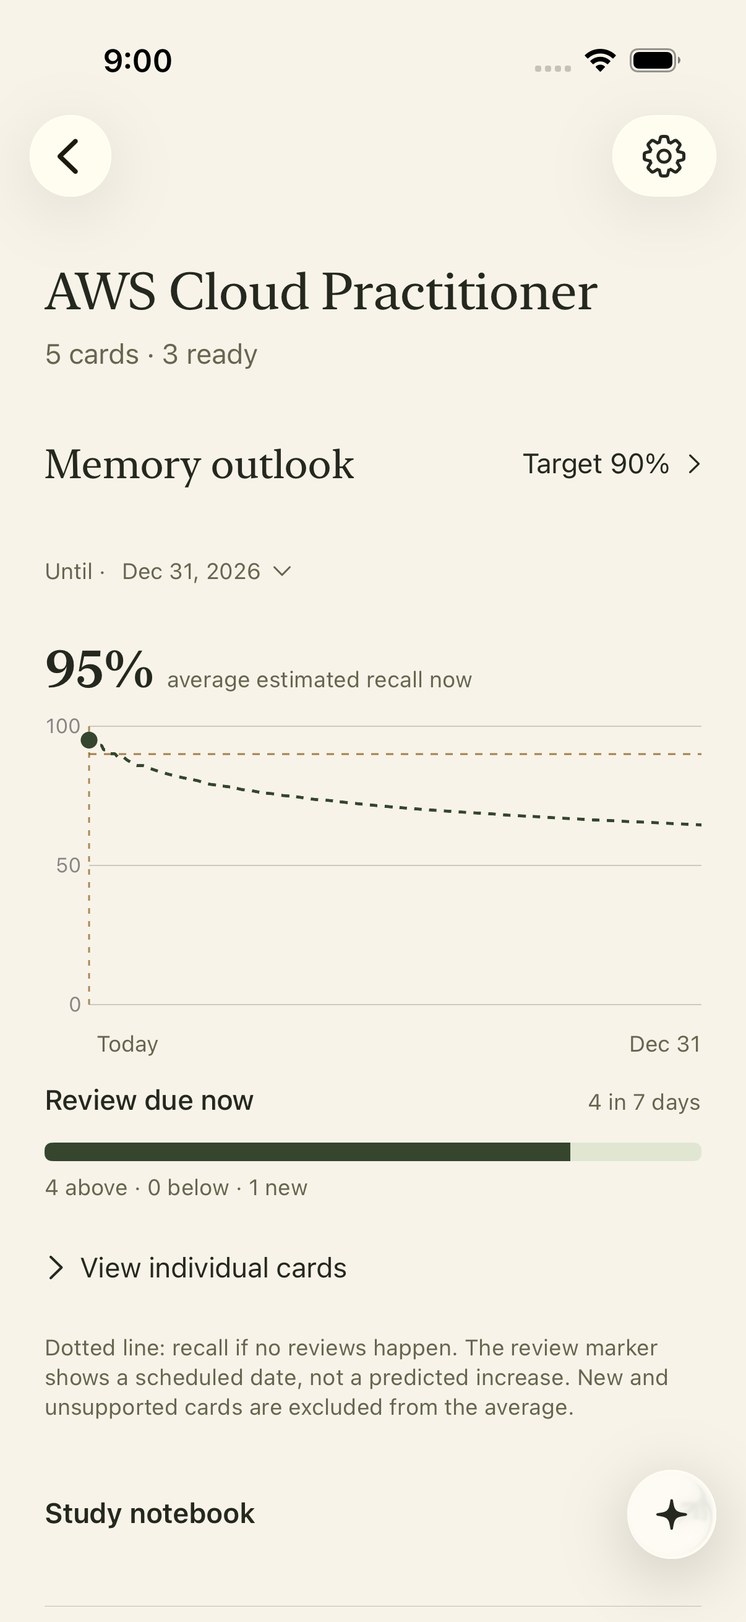
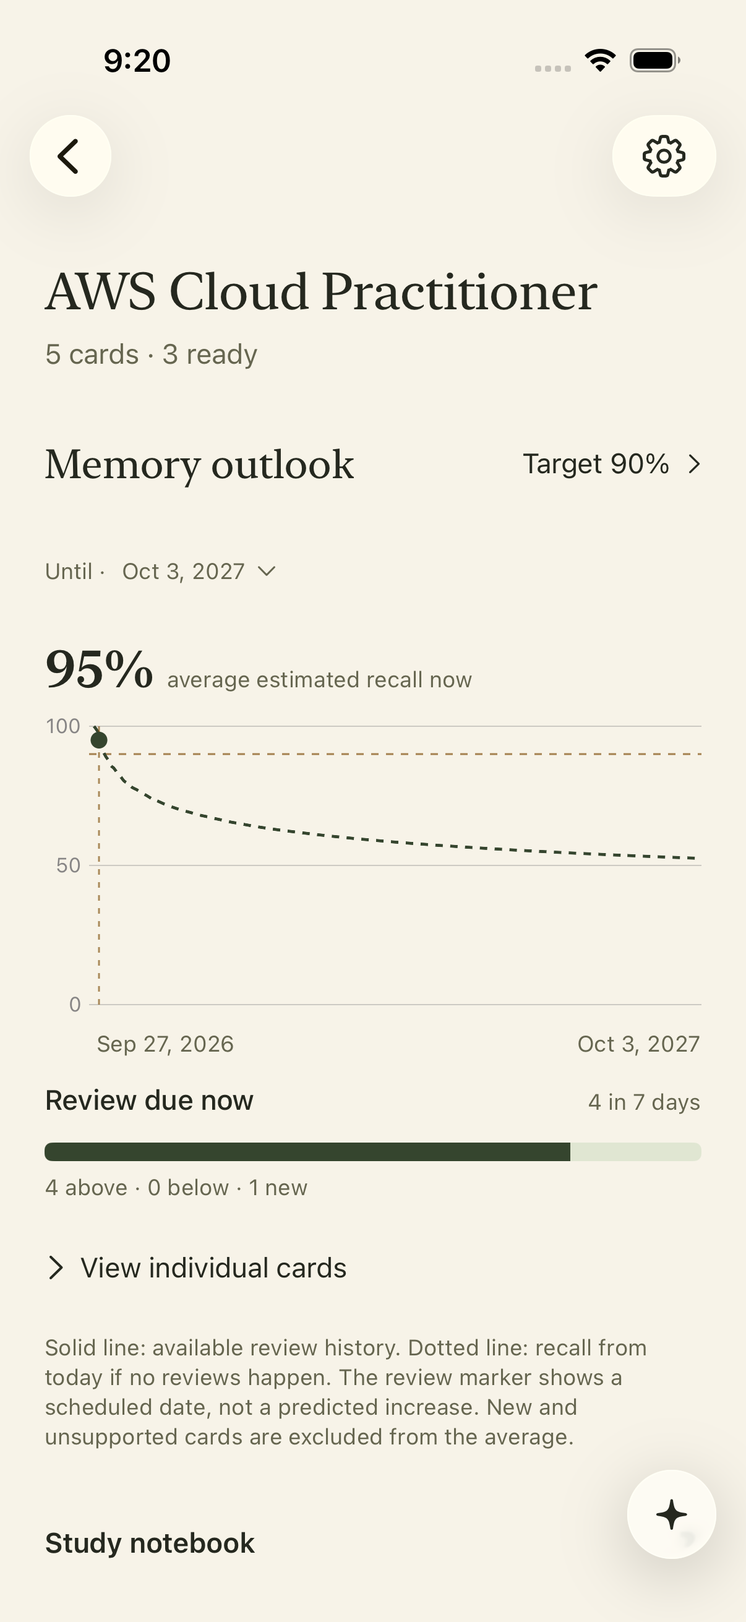
Add planned review forecasts and configurable daily reminders

diff --git a/Sources/StudyApplication/DeckMemoryOutlook.swift b/Sources/StudyApplication/DeckMemoryOutlook.swift
@@ -12,6 +12,8 @@ public struct MemoryCardEstimate: Identifiable, Sendable {
     public let prompt: String
     public let probabilities: [Double]
     public let history: [MemoryHistoryPoint]
+    public let projection: [MemoryHistoryPoint]
+    public let reviewDates: [Date]
 }
 
 public struct DeckMemoryOutlook: Sendable {
@@ -24,12 +26,14 @@ public struct DeckMemoryOutlook: Sendable {
     public let belowTarget: Int
     public let newCount: Int
     public let unavailableCount: Int
+    public let projection: [MemoryHistoryPoint]
+    public let reviewDates: [Date]
     public let average: [Double]
     public let cards: [MemoryCardEstimate]
     public let nextPlannedReview: Date?
     public let scheduledWithinWeek: Int
 
-    public static func make(deck: Deck, library: LibrarySnapshot, now: Date, estimator: (any MemoryEstimating)?) -> Self {
+    public static func make(deck: Deck, library: LibrarySnapshot, now: Date, estimator: (any MemoryEstimating)?, scheduler: (any Scheduler)? = nil) -> Self {
         let reviews = library.activeReviews.filter { $0.deckID == deck.id && $0.reviewedAt <= now }.sorted { $0.reviewedAt < $1.reviewedAt }
         let start = min(deck.createdAt ?? reviews.first?.reviewedAt ?? now, now)
         let end = forecastEnd(examDate: deck.examDate, now: now)
@@ -42,6 +46,7 @@ public struct DeckMemoryOutlook: Sendable {
         let notes = Dictionary(uniqueKeysWithValues: library.liveNotes.map { ($0.id, $0) })
         let cards = library.liveCards.filter { $0.deckID == deck.id && !$0.suspended && notes[$0.noteID] != nil }
         var estimated: [MemoryCardEstimate] = []
+        var trajectories: [String: [(Date, ScheduleState)]] = [:]
         var newCount = 0
         var unavailable = 0
         for card in cards {
@@ -54,7 +59,38 @@ public struct DeckMemoryOutlook: Sendable {
                 guard let probability = estimator?.recallProbability(state: review.after, now: review.reviewedAt, settings: settings) else { return nil }
                 return MemoryHistoryPoint(date: review.reviewedAt, probability: probability)
             }
-            estimated.append(MemoryCardEstimate(id: card.id, prompt: notes[card.noteID]?.front ?? "Question", probabilities: points, history: history))
+            var trajectory: [(Date, ScheduleState)] = [(now, card.schedule)]
+            var planned: [Date] = []
+            if let scheduler, !library.isDeckSuspended(deck.id) {
+                var state = card.schedule
+                for _ in 0..<512 {
+                    let date = max(state.due, now.addingTimeInterval(1))
+                    guard date <= end, let next = try? scheduler.outcomes(state: state, history: [], now: date, settings: settings)[.good],
+                          next.due > date, estimator?.recallProbability(state: next, now: date, settings: settings) != nil else { break }
+                    trajectory.append((date, next)); planned.append(date); state = next
+                }
+            }
+            trajectories[card.id] = trajectory
+            let projectionDates = Array(Set(dates + planned + planned.map { $0.addingTimeInterval(-0.001) })).sorted()
+            let projection = projectionDates.compactMap { date -> MemoryHistoryPoint? in
+                let state = trajectory.last { $0.0 <= date }?.1 ?? card.schedule
+                guard let value = estimator?.recallProbability(state: state, now: date, settings: settings) else { return nil }
+                return MemoryHistoryPoint(date: date, probability: value)
+            }
+            estimated.append(MemoryCardEstimate(id: card.id, prompt: notes[card.noteID]?.front ?? "Question", probabilities: points, history: history, projection: projection, reviewDates: planned))
+        }
+        // Bound the aggregate chart while retaining exact before/after samples at displayed reviews.
+        let allReviewDates = Array(Set(estimated.flatMap(\.reviewDates))).sorted()
+        let step = max(1, Int(ceil(Double(allReviewDates.count) / 128)))
+        let reviewDates = allReviewDates.enumerated().filter { $0.offset % step == 0 }.map(\.element)
+        let aggregateDates = Array(Set(dates + reviewDates + reviewDates.map { $0.addingTimeInterval(-0.001) })).sorted()
+        let projection = aggregateDates.compactMap { date -> MemoryHistoryPoint? in
+            let probabilities = estimated.compactMap { card -> Double? in
+                guard let state = trajectories[card.id]?.last(where: { $0.0 <= date })?.1 else { return nil }
+                return estimator?.recallProbability(state: state, now: date, settings: settings)
+            }
+            guard probabilities.count == estimated.count, !probabilities.isEmpty else { return nil }
+            return MemoryHistoryPoint(date: date, probability: probabilities.reduce(0, +) / Double(probabilities.count))
         }
         let average = dates.indices.map { day in estimated.isEmpty ? 0 : estimated.reduce(0) { $0 + $1.probabilities[day] } / Double(estimated.count) }
         let scheduled = cards.filter { $0.schedule.phase != .new }.map(\.schedule.due)
@@ -72,10 +108,16 @@ public struct DeckMemoryOutlook: Sendable {
                     aboveTarget: estimated.filter { $0.probabilities[0] >= target }.count,
                     belowTarget: estimated.filter { $0.probabilities[0] < target }.count,
                     newCount: newCount, unavailableCount: unavailable,
-                    average: average, cards: estimated,
+                    projection: projection, reviewDates: reviewDates, average: average, cards: estimated,
                     nextPlannedReview: scheduled.min(),
                     scheduledWithinWeek: scheduled.filter { $0 <= now.addingTimeInterval(7 * 86_400) }.count)
     }
+    /// Zoom ten percentage points below the projected endpoint (the visible plateau).
+    public static func recallAxisDomain(plateau: Double?) -> ClosedRange<Double> {
+        guard let plateau, plateau.isFinite, (0...1).contains(plateau) else { return 0...100 }
+        return max(0, (plateau * 100).rounded() - 10)...100
+    }
+
     public static func forecastEnd(examDate: Date?, now: Date, calendar: Calendar = .current) -> Date {
         if let examDate, examDate > now { return examDate }
         return calendar.date(byAdding: .year, value: 1, to: now) ?? now.addingTimeInterval(365 * 86_400)

diff --git a/Sources/Features/DeckMemoryPanel.swift b/Sources/Features/DeckMemoryPanel.swift
@@ -12,6 +12,7 @@ struct DeckMemoryPanel: View {
     @Environment(\.accessibilityReduceMotion) private var reduceMotion
     @State private var outlook: DeckMemoryOutlook?
     @State private var selectedCardID: String?
+    @State private var inspectedDate: Date?
     @State private var editingTarget = false
     @State private var useCustomTarget = false
     @State private var target = 0.9
@@ -61,6 +62,7 @@ struct DeckMemoryPanel: View {
                         Text(selected == nil ? "average estimated recall now" : "estimated recall now")
                             .font(.caption).foregroundStyle(palette.secondaryText)
                     }
+                    let axis = DeckMemoryOutlook.recallAxisDomain(plateau: (selected?.projection ?? outlook.projection).last?.probability)
                     Chart {
                         ForEach(selected?.history ?? outlook.history) { point in
                             LineMark(x: .value("Date", point.date), y: .value("Recall", point.probability * 100), series: .value("Period", "Recorded reviews"))
@@ -77,20 +79,36 @@ struct DeckMemoryPanel: View {
                         }
                         ForEach(values.enumerated().map { Point(id: $0.offset, date: outlook.sampleDates[$0.offset], probability: $0.element) }) { point in
                             LineMark(x: .value("Date", point.date), y: .value("Recall", point.probability * 100), series: .value("Period", "Forecast"))
-                                .foregroundStyle(curveColor)
-                                .lineStyle(StrokeStyle(lineWidth: 1.6, dash: [4, 4]))
+                                .foregroundStyle(palette.answerSelectionInk)
+                                .lineStyle(StrokeStyle(lineWidth: 1.3, dash: [2, 4]))
                                 .interpolationMethod(.monotone)
+                        }
+                        ForEach(selected?.projection ?? outlook.projection) { point in
+                            LineMark(x: .value("Date", point.date), y: .value("Recall", point.probability * 100), series: .value("Period", "Planned reviews"))
+                                .foregroundStyle(curveColor).lineStyle(StrokeStyle(lineWidth: 1.5, dash: [5, 3]))
+                                .interpolationMethod(.linear)
+                        }
+                        if let inspectedDate, let date = (selected?.reviewDates ?? outlook.reviewDates).min(by: { abs($0.timeIntervalSince(inspectedDate)) < abs($1.timeIntervalSince(inspectedDate)) }) {
+                            RuleMark(x: .value("Selected review", date))
+                                .foregroundStyle(palette.accentInk)
+                                .annotation(position: .top) { Text(date, format: .dateTime.month(.abbreviated).day()).font(.caption2).foregroundStyle(palette.primaryText) }
                         }
                         PointMark(x:.value("Today",model.now),y:.value("Recall today",(values.first ?? 0) * 100))
                             .foregroundStyle(curveColor).symbolSize(64)
                     }
-                    .chartYScale(domain: 0.0...100.0)
+                    .chartYScale(domain: axis)
+                    .chartPlotStyle { plot in plot.clipped() }
                     .chartXScale(domain: outlook.startDate...(outlook.sampleDates.last ?? model.now.addingTimeInterval(1)))
+                    .chartXSelection(value: $inspectedDate)
                     .chartXAxis(.hidden)
-                    .chartYAxis { AxisMarks(position: .leading, values: [0, 50, 100]) }
+                    .chartYAxis { AxisMarks(position: .leading, values: [axis.lowerBound, ((axis.lowerBound + 100) / 2).rounded(), 100]) }
                     .frame(height: 150)
                     .animation(reduceMotion ? nil : .easeOut(duration: 0.25), value: selectedCardID)
-                    .accessibilityLabel("Estimated recall \(Int((values.first ?? 0) * 100)) percent today, against a \(Int(outlook.target * 100)) percent target; dotted curve assumes no reviews until the displayed end date")
+                    .accessibilityLabel("Estimated recall \(Int((values.first ?? 0) * 100)) percent today, against a \(Int(outlook.target * 100)) percent target; forecast assumes Good at each planned review")
+                    HStack(spacing: 16) {
+                        Label("Planned reviews", systemImage: "line.diagonal").foregroundStyle(curveColor)
+                        Label("No more reviews", systemImage: "line.diagonal").foregroundStyle(palette.answerSelectionInk)
+                    }.font(.caption)
                     HStack { Text(outlook.startDate, format: .dateTime.month(.abbreviated).day().year()); Spacer(); Text(outlook.sampleDates.last ?? model.now, format: .dateTime.month(.abbreviated).day().year()) }
                         .font(.caption).foregroundStyle(palette.secondaryText).padding(.leading, 28)
                     if selected == nil,let next = outlook.nextPlannedReview {
@@ -129,7 +147,11 @@ struct DeckMemoryPanel: View {
                     Text(selected?.prompt ?? "").font(.subheadline).lineLimit(2)
                     Button("All cards") { selectedCardID = nil }.frame(minHeight: 44)
                 }
-                Text("Solid line: available review history. Dotted line: recall from today if no reviews happen. The review marker shows a scheduled date, not a predicted increase. New and unsupported cards are excluded from the average.")
+                if !(selected?.reviewDates ?? outlook.reviewDates).isEmpty {
+                    Text("Planned · " + (selected?.reviewDates ?? outlook.reviewDates).prefix(3).map { $0.formatted(.dateTime.month(.abbreviated).day()) }.joined(separator: " · "))
+                        .font(.caption).foregroundStyle(palette.secondaryText)
+                }
+                Text("Solid line: review history. Dotted forecast assumes Good at due dates; actual answers and daily limits can change it. Scale starts 10 points below the forecast plateau; lower recall falls outside this zoom. New and unsupported cards are excluded.")
                     .font(.caption).foregroundStyle(palette.secondaryText)
             }
             .task(id: "\(model.library.revision)-\(deck.id)-\(Int(model.now.timeIntervalSince1970 / 60))") {

diff --git a/Sources/Features/ReviewReminderController.swift b/Sources/Features/ReviewReminderController.swift
@@ -1,0 +1,45 @@
+import Foundation
+import Observation
+import UserNotifications
+
+/// Device-local reminder. A single stable identifier replaces every previous time.
+@MainActor @Observable public final class ReviewReminderController {
+    public var enabled: Bool { didSet { defaults.set(enabled, forKey: "engram.reminder.enabled"); reconcile() } }
+    public var time: Date { didSet { let parts = Calendar.current.dateComponents([.hour, .minute], from: time); defaults.set(parts.hour ?? 19, forKey: "engram.reminder.hour"); defaults.set(parts.minute ?? 0, forKey: "engram.reminder.minute"); reconcile() } }
+    public private(set) var status: String?
+    @ObservationIgnored private let defaults: UserDefaults
+    @ObservationIgnored private var pending: Task<Void, Never>?
+    private static let identifier = "engram.daily-review"
+    public init(defaults: UserDefaults = .standard) {
+        self.defaults = defaults
+        enabled = defaults.bool(forKey: "engram.reminder.enabled")
+        let hour = defaults.object(forKey: "engram.reminder.hour") as? Int ?? 19
+        let minute = defaults.integer(forKey: "engram.reminder.minute")
+        time = Calendar.current.date(bySettingHour: hour, minute: minute, second: 0, of: Date()) ?? Date()
+    }
+    public func reconcile() {
+        let previous = pending
+        pending = Task { [weak self] in
+            await previous?.value
+            guard let self else { return }
+            let center = UNUserNotificationCenter.current()
+            center.removePendingNotificationRequests(withIdentifiers: [Self.identifier])
+            guard enabled else { status = nil; return }
+            // UI fixtures never request OS permissions or create real reminders.
+            guard !ProcessInfo.processInfo.arguments.contains("--ui-testing") else { status = "Daily reminder preview"; return }
+            do {
+                let granted = try await center.requestAuthorization(options: [.alert, .sound])
+                guard enabled else { return }
+                guard granted else { status = "Notifications are disabled. Allow Engram notifications in system settings."; return }
+                let content = UNMutableNotificationContent()
+                content.title = "A moment to review"
+                content.body = "Your learning is waiting. Open Engram when you’re ready."
+                content.sound = .default
+                let components = DateComponents(hour: defaults.object(forKey: "engram.reminder.hour") as? Int ?? 19, minute: defaults.integer(forKey: "engram.reminder.minute"))
+                let trigger = UNCalendarNotificationTrigger(dateMatching: components, repeats: true)
+                try await center.add(UNNotificationRequest(identifier: Self.identifier, content: content, trigger: trigger))
+                status = nil
+            } catch { status = "Couldn’t schedule your reminder: " + error.localizedDescription }
+        }
+    }
+}

diff --git a/Tests/EngramTests/DeckMemoryOutlookTests.swift b/Tests/EngramTests/DeckMemoryOutlookTests.swift
@@ -47,6 +47,37 @@ final class DeckMemoryOutlookTests: XCTestCase {
         XCTAssertEqual(activity.decks.first?.counts[.belowTarget], 1)
     }
 
+    func testPlateauAxisZoomAndSafeFallback() {
+        XCTAssertEqual(DeckMemoryOutlook.recallAxisDomain(plateau: 0.95), 85...100)
+        XCTAssertEqual(DeckMemoryOutlook.recallAxisDomain(plateau: 1), 90...100)
+        XCTAssertEqual(DeckMemoryOutlook.recallAxisDomain(plateau: 0.05), 0...100)
+        XCTAssertEqual(DeckMemoryOutlook.recallAxisDomain(plateau: .nan), 0...100)
+        XCTAssertEqual(DeckMemoryOutlook.recallAxisDomain(plateau: nil), 0...100)
+    }
+
+    func testPlannedReviewsRaiseRecallWithoutChangingStoredSchedule() throws {
+        let now = Date()
+        let scheduler = FSRSScheduler()
+        var library = LibrarySnapshot()
+        let deck = Deck(id: "d", name: "Forecast")
+        library.decks = [deck]
+        library.notes = [Note(id: "n", deckID: "d", kind: .basic, front: "Question", back: "Answer")]
+        let initial = try scheduler.initialState(now: now.addingTimeInterval(-10 * 86_400), settings: library.settings)
+        let state = try XCTUnwrap(scheduler.outcomes(state: initial, history: [], now: now.addingTimeInterval(-10 * 86_400), settings: library.settings)[.easy])
+        library.cards = [StudyCard(id: "c", noteID: "n", deckID: "d", schedule: state)]
+        let outlook = DeckMemoryOutlook.make(deck: deck, library: library, now: now, estimator: scheduler, scheduler: scheduler)
+        let date = try XCTUnwrap(outlook.reviewDates.first)
+        let before = try XCTUnwrap(outlook.projection.last { $0.date < date })
+        let after = try XCTUnwrap(outlook.projection.first { $0.date == date })
+        XCTAssertGreaterThan(after.probability, before.probability)
+        XCTAssertEqual(after.probability, 1, accuracy: 0.001)
+        XCTAssertEqual(library.cards[0].schedule, state)
+        XCTAssertTrue(library.reviews.isEmpty)
+        library.decks[0].studySuspended = true
+        let paused = DeckMemoryOutlook.make(deck: library.decks[0], library: library, now: now, estimator: scheduler, scheduler: scheduler)
+        XCTAssertTrue(paused.reviewDates.isEmpty)
+    }
+
     func testHistoryBeginsWithRecordedEvidence() throws {
         let now = Date()
         let created = now.addingTimeInterval(-30 * 86_400)

diff --git a/Sources/Features/SettingsDetailPages.swift b/Sources/Features/SettingsDetailPages.swift
@@ -30,6 +30,16 @@ struct StudyPreferencesPage: View {
                     NavigationLink { TimeZonePage(model: model) } label: { LabeledContent("Time zone", value: settings.timeZoneID.replacingOccurrences(of: "_", with: " ")) }
                 } header: { Text("Study day") } footer: { Text("Your saved time zone stays fixed while travelling. The day boundary controls when daily limits reset.") }
             }
+            if !scheduling {
+                EngramListSection {
+                    Toggle("Daily review reminder", isOn: Binding(get: { model.reminders.enabled }, set: { model.reminders.enabled = $0 }))
+                        .accessibilityIdentifier("daily-review-reminder")
+                    if model.reminders.enabled {
+                        DatePicker("Reminder time", selection: Binding(get: { model.reminders.time }, set: { model.reminders.time = $0 }), displayedComponents: .hourAndMinute)
+                        if let status = model.reminders.status { Text(status).font(.caption).engramSecondaryText() }
+                    }
+                } header: { Text("Reminders") } footer: { Text("At most one notification per day, at this device’s local time. This is a daily invitation to study, even if no cards are due. Turning it off cancels future reminders.") }
+            }
             if let error = model.error { EngramListSection { Text(error).engramErrorText() } }
             if model.busy { EngramListSection { ProgressView("Saving…") } }
         }.modifier(UtilityListStyle()).navigationTitle(scheduling ? "Scheduling" : "Study")

diff --git a/App/EngramApp.swift b/App/EngramApp.swift
@@ -99,7 +99,10 @@ private struct ApplicationRoot: View {
             if ProcessInfo.processInfo.arguments.contains("--ui-testing") && ProcessInfo.processInfo.arguments.contains("--ui-largest-text") { size = .accessibility5 }
         }
         #endif
-        .onChange(of: scenePhase) { _, phase in if phase == .background { screenshots.cancel() } }
+        .onChange(of: scenePhase) { _, phase in
+            if phase == .background { screenshots.cancel() }
+            if phase == .active { model?.reminders.reconcile() }
+        }
     }
     private func canCapture(_ model: EngramModel) -> Bool {
         model.loaded && !model.busy && !screenshots.running && !screenshots.presented &&
@@ -206,6 +209,7 @@ private struct ApplicationRoot: View {
             let repository = try await Task.detached(priority: .userInitiated) { try SQLiteLibraryRepository(url: location.deletingLastPathComponent().appendingPathComponent("library.sqlite"), migrating: location) }.value
             let opened = EngramModel(service: StudyService(repository: repository, scheduler: FSRSScheduler()), repository: repository)
             model = opened
+            opened.reminders.reconcile()
             transfer = PortabilityModel(model: opened, backupDirectory: location.deletingLastPathComponent().appendingPathComponent("Backups", isDirectory: true))
             failure = nil
         } catch { failure = error.localizedDescription }

diff --git a/Tests/EngramUITests/MinimalistStudyUITests.swift b/Tests/EngramUITests/MinimalistStudyUITests.swift
@@ -1,6 +1,20 @@
 import XCTest
 
 final class MinimalistStudyUITests: XCTestCase {
+    @MainActor func testDailyReminderControls() {
+        let app = launch()
+        XCTAssertTrue(app.buttons["Settings"].waitForExistence(timeout: 15))
+        app.buttons["Settings"].tap()
+        app.buttons.containing(.staticText, identifier: "Study").firstMatch.tap()
+        let toggle = app.switches["daily-review-reminder"]
+        XCTAssertTrue(toggle.waitForExistence(timeout: 5))
+        for _ in 0..<4 where !toggle.isHittable { app.swipeUp() }
+        toggle.switches.firstMatch.exists ? toggle.switches.firstMatch.tap() : toggle.tap()
+        XCTAssertTrue(app.datePickers.firstMatch.waitForExistence(timeout: 5))
+        capture("Settings-Daily-Reminder", app)
+        toggle.switches.firstMatch.exists ? toggle.switches.firstMatch.tap() : toggle.tap()
+        XCTAssertFalse(app.datePickers.firstMatch.exists)
+    }
     @MainActor func testLibrarySuspendAndContextMenus() {
         let app = launch(extra: ["--ui-image-fixture"])
         XCTAssertTrue(app.buttons["assistant-entry"].waitForExistence(timeout: 15))

diff --git a/Sources/Features/EngramModel.swift b/Sources/Features/EngramModel.swift
@@ -20,6 +20,7 @@ public struct DeckForm: Identifiable {
 
 /// Own once in the composition root. Theme, selection and sheets never own learning data.
 @MainActor @Observable public final class EngramModel {
+    public let reminders: ReviewReminderController
     let voice = VoiceStudyController()
     let aiMarker = AIAnswerMarker()
     let pdfLearning = PDFLearningController()
@@ -95,6 +96,7 @@ public struct DeckForm: Identifiable {
 
     public init(service: StudyService, defaults: UserDefaults = .standard, repository: SQLiteLibraryRepository? = nil) {
         self.service = service; self.defaults = defaults
+        reminders = ReviewReminderController(defaults: defaults)
         cloud = CloudAccountController(repository:repository)
         lastBackupExport = defaults.object(forKey: "engram.lastBackupExport.v1") as? Date
         deckCreationDraft = defaults.data(forKey: "engram.deckCreationDraft.v1")

diff --git a/Sources/StudyApplication/StudyService.swift b/Sources/StudyApplication/StudyService.swift
@@ -11,7 +11,7 @@ public actor StudyService {
         ActivitySummary.make(in: library, period: period, now: now, estimator: scheduler as? any MemoryEstimating, interval: interval)
     }
     public func memoryOutlook(for deck: Deck, in library: LibrarySnapshot, now: Date) -> DeckMemoryOutlook {
-        DeckMemoryOutlook.make(deck: deck, library: library, now: now, estimator: scheduler as? any MemoryEstimating)
+        DeckMemoryOutlook.make(deck: deck, library: library, now: now, estimator: scheduler as? any MemoryEstimating, scheduler: scheduler)
     }
     public func snapshot() async throws -> LibrarySnapshot { try await repository.read() }
 

diff --git a/docs/DECK-RETENTION-HORIZON.md b/docs/DECK-RETENTION-HORIZON.md
@@ -2,7 +2,7 @@
 
 The deck memory graph begins at deck creation and runs to a saved exam/target date. Without a future date, it ends one calendar year from today. Tap the date beneath Memory outlook to set or clear the date. A past deadline falls back to the rolling-year view.
 
-The curve uses actual dates and at most 65 samples, concentrated near today to retain the initial decay shape. Both deck averages and individual-card views use the same horizon. Solid historical estimates use recorded post-review states only; unsupported periods are left blank rather than reconstructed from the current state. Future estimates start at today. The current dot, retention target, theme colours, and next scheduled review marker remain. This is an estimate without future reviews; an exam date changes the view, not the scheduler.
+The curve uses actual dates and at most 65 samples, concentrated near today to retain the initial decay shape. Both deck averages and individual-card views use the same horizon. Solid historical estimates use recorded post-review states only; unsupported periods are left blank rather than reconstructed from the current state. Future estimates start at today. The current dot, retention target, theme colours, and next scheduled review marker remain. The orange dotted comparison curve estimates recall without future reviews; an exam date changes the view, not the scheduler.
 
 Exam dates are optional in saved decks, so older libraries continue to decode. Personal account synchronization retains the date without publishing it to shared deck collaborators.
 
@@ -13,3 +13,13 @@ Final UI check passed in /tmp/engram-deck-date-picker.xcresult, explicitly waiti
 Latest requirements: remove the notebook listing and duplicate saved-session action from Today. Its single study action resumes existing work when available. Left-swipe deck rows reveal Suspend/Resume; long-press menus provide open, suspend/resume, source import and confirmed deletion. All PDF/Markdown/image rows provide Open file and confirmed Delete file. Pausing a deck also excludes descendant decks, without modifying their cards, schedules or existing individual-card pauses. Suspension is account-private in synchronization.
 
 Rolling-year validation: all eight focused logic/synchronization tests passed, including historical evidence boundaries, creation date, descendant suspension, preservation of individual card pauses, and private cloud round trips. Final Library swipe/context tests passed in /tmp/engram-library-actions-final.xcresult; deck graph/date/navigation passed in /tmp/engram-rolling-year-labels.xcresult. Screenshots were inspected and rotated in current_ui. Older decks without creation metadata use their earliest recorded review, or today when neither is known. The final signed app installed and launched on the paired iPhone at 21:20 on 3 October 2026.
+
+## Planned reviews and reminders
+
+The future curve now simulates FSRS Good reviews at the saved due date and subsequent simulated due dates, with exact before/after points showing retention recovery. It never commits simulated reviews or changes saved schedules. The first date is scheduled; later dates are conditional forecasts. Actual grades, daily limits, skipped reviews and future setting changes can change the result. Suspended decks do not project reviews. New/unsupported cards remain excluded. An orange dotted no-review curve runs to the same endpoint, while the planned-review forecast retains the historical curve colour, and touching the graph highlights the nearest displayed planned date. Aggregate event sampling is bounded to keep larger decks readable; individual-card curves retain their own events.
+
+Settings → Study now includes an optional daily review reminder, off by default, and a native time picker. One stable notification identifier replaces prior times, using a repeating hour/minute calendar trigger in device-local time. Turning the toggle off removes pending reminders. The notification is a generic study invitation even when no cards are due; it exposes no deck or card content. Permission denial and scheduling errors are shown inline. No cloud service or background polling is required. UI fixtures preview controls without requesting notification permission or scheduling real alerts.
+
+The Y-axis is intentionally zoomed: its lower bound is ten percentage points below the rounded projected endpoint (plateau), with 100% at the top. Curves below the lower bound are clipped inside the plot rather than drawing outside it; the legend and disclosure identify the no-review comparison. Missing estimates fall back to 0–100%.
+
+Validation for planned reviews/reminders: nine focused forecast tests passed, including upward Good-review recovery without changing stored schedules, paused decks and plateau-axis fallbacks. Reminder controls and deck navigation passed in /tmp/engram-review-reminders-final.xcresult; the final plateau graph passed in /tmp/engram-plateau-axis.xcresult. Graph and reminder screenshots were inspected and archived. Notification permission/delivery must be exercised on the physical device; fixture tests deliberately do not schedule alerts. The final signed build installed and launched on the paired iPhone at 22:11 on 3 October 2026.
